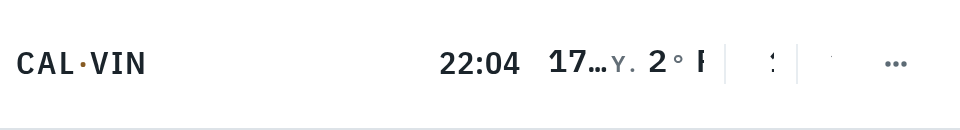
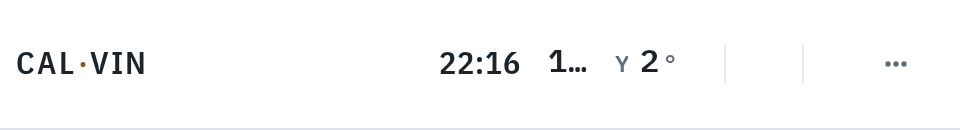
fix(frontend): tile names truncate strictly before values, tiles keep a gap, owner values stay whole (calvin-r7lb)

Changed region(s): [[0.5938, 0.3692, 0.75, 0.5538], [0.5, 0.4, 0.5625, 0.5846]]

diff --git a/frontend/tests/e2e/phone/clock-bar-zones.spec.js b/frontend/tests/e2e/phone/clock-bar-zones.spec.js
@@ -268,3 +268,20 @@ for (const scenario of SCENARIOS) {
     });
   }
 }
+
+// The departure time is what people read: where the owner's two tiles fit, the
+// SL value is whole and only the name gives way (calvin-r7lb).
+test.describe("owner tiles keep their values whole", () => {
+  test.use({ viewport: { width: 1280, height: 800 } });
+
+  test("editor preview, top/bottom bar, landscape", async ({ page }) => {
+    await installApiMock(page, { overrides: tileOverrides(ALL_TILES.slice(0, 2)) });
+    const editor = await openEditor(page, { shape: "horizontal", orientation: "landscape" });
+    const cut = await editor
+      .locator(".clock-bar-horizontal .status__cell-value")
+      .evaluateAll(els =>
+        els.filter(el => el.scrollWidth > el.clientWidth + 1).map(el => el.textContent.trim())
+      );
+    expect(cut).toEqual([]);
+  });
+});

diff --git a/frontend/src/components/PluginStatusbarItems.vue b/frontend/src/components/PluginStatusbarItems.vue
@@ -136,6 +136,8 @@ onMounted(() => {
   grid-auto-flow: column;
   grid-auto-columns: minmax(0, max-content);
   align-items: center;
+  /* Tiles in a row never run together ("176·9'YR 2°"). */
+  column-gap: var(--gap-inline);
   /* The tiles are the part of a bar that gives way: they shrink (their names
      truncate) instead of running over the zone beside them (calvin-r7lb). */
   min-width: 0;
@@ -145,6 +147,7 @@ onMounted(() => {
 
 .plugin-statusbar-items.orientation-vertical {
   overflow: visible;
+  column-gap: 0;
   display: flex;
   flex-direction: column;
   gap: 0.5rem;

diff --git a/frontend/src/components/plugins/renderers/StatusRenderer.vue b/frontend/src/components/plugins/renderers/StatusRenderer.vue
@@ -161,7 +161,7 @@ function readoutClass(item) {
 
 .status__cell-label {
   min-width: 0;
-  flex: 0 8 auto;
+  flex: 0 9999 auto;
   overflow: hidden;
 }
 
